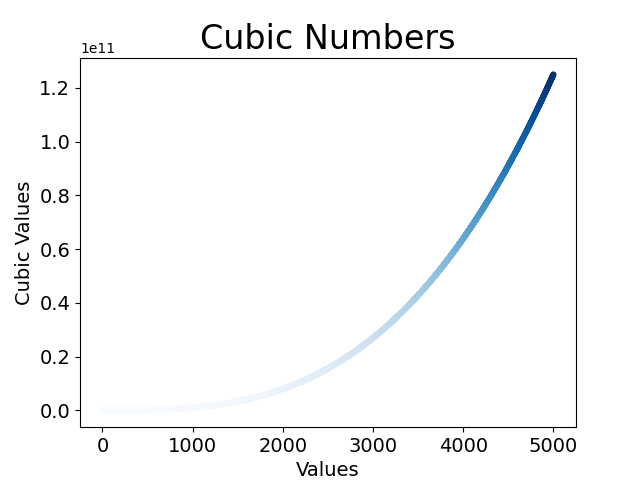
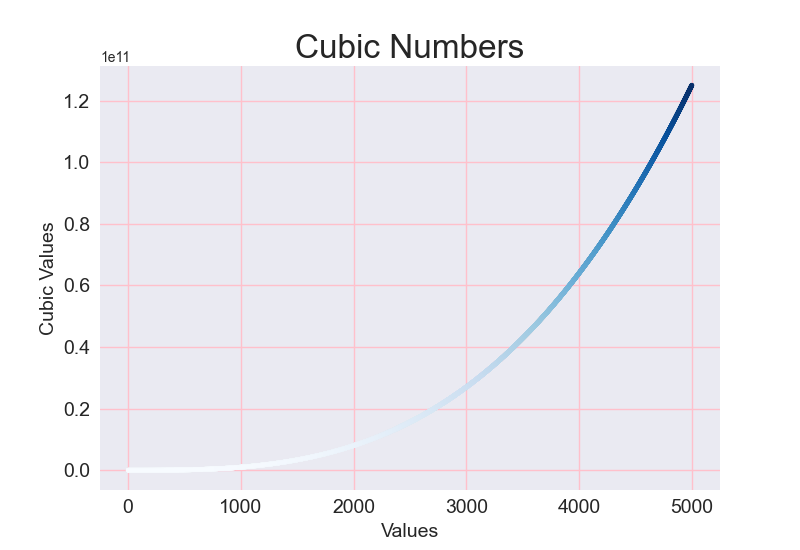
Data Visualization

diff --git a/cubic_numbers.py b/cubic_numbers.py
@@ -3,12 +3,13 @@ import matplotlib.pyplot as plt
 x_values = range(1, 5001)
 y_values = ([x ** 3 for x in x_values])
 
+plt.style.use("seaborn")
 fig, ax = plt.subplots()
 ax.scatter(x_values, y_values, c = y_values, cmap = plt.cm.Blues, s = 10)
 
 ax.set_title("Cubic Numbers", fontsize = 24)
 ax.set_xlabel("Values", fontsize = 14)
 ax.set_ylabel("Cubic Values", fontsize = 14)
-ax.tick_params(axis = "both", labelsize = 14)
+ax.tick_params(axis = "both", labelsize = 14, grid_color = "pink")
 
 plt.savefig("cubic_numbers.png")
